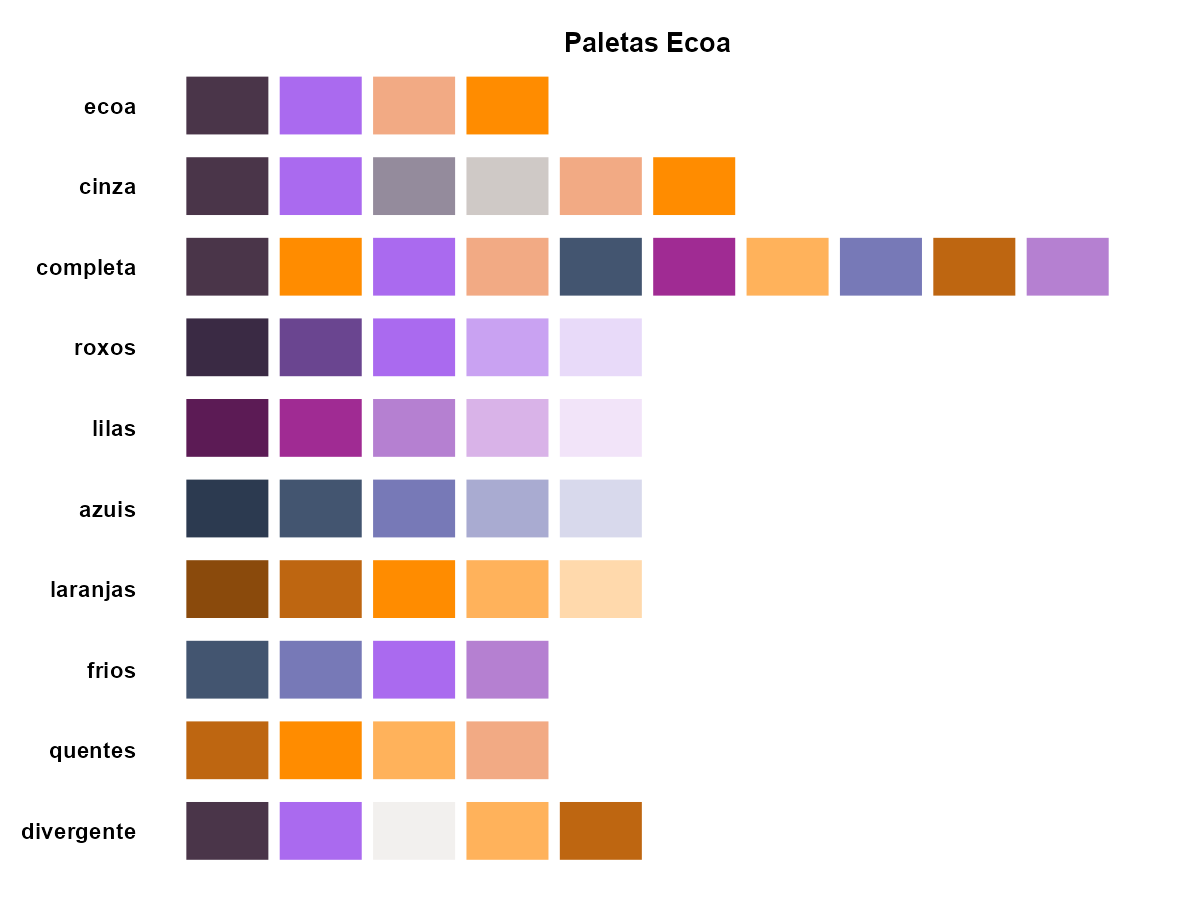
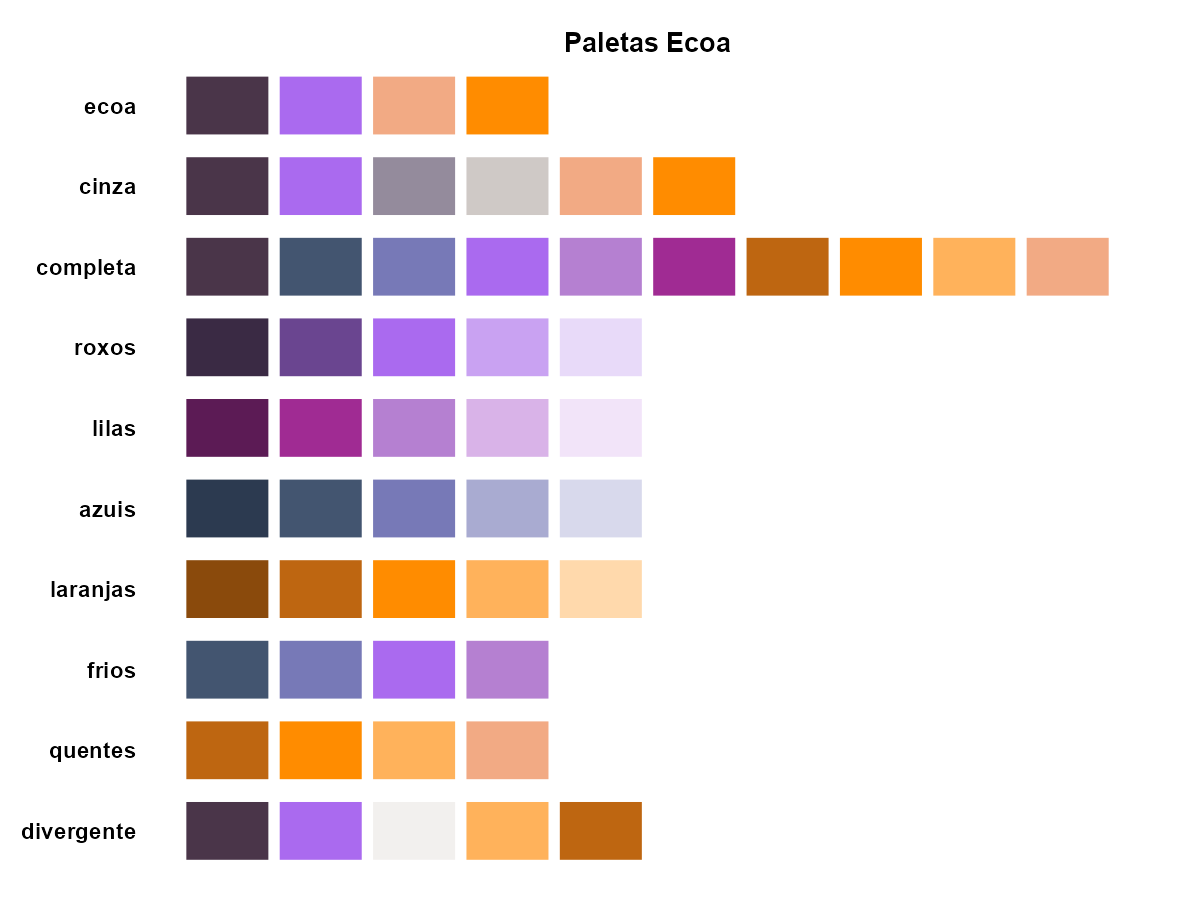
Reordena a paleta completa como espectro continuo e melhora a selecao
A ordem alternada anterior nao tinha leitura de conjunto em graficos
com muitas cores e gerava misturas turvas ao interpolar. Mudancas:

- Paleta completa reordenada como espectro continuo frios -> quentes:
  roxo escuro, azuis, roxo claro, lilas, magenta e laranjas do escuro
  ao pessego. Distancia CIELAB media entre cores vizinhas caiu de 92
  para 36 (transicao ~2,5x mais suave)
- Selecao qualitativa deixa de pegar as primeiras n cores e passa a
  pegar n cores igualmente espacadas ao longo do espectro: com poucas
  categorias o contraste segue alto (>= 36 ate n=5, contra 18,9 antes)
  e a interpolacao alem de 10 cores fica coerente

Changed region(s): [[0.2158, 0.2489, 0.555, 0.3422], [0.6167, 0.2489, 0.925, 0.3422]]

diff --git a/README.md b/README.md
@@ -61,7 +61,7 @@ Alem da paleta padrao, o pacote traz um conjunto de paletas nomeadas, no estilo 
 |--------|------|:-----:|--------------|
 | `ecoa` | principal | 4 | Padrao: roxos e laranjas |
 | `cinza` | principal | 6 | Padrao com cinzas na transicao, para mais categorias |
-| `completa` | qualitativa | 10 | Muitas categorias: roxos, laranjas, azuis e lilas do tema institucional |
+| `completa` | qualitativa | 10 | Muitas categorias: espectro continuo (frios -> quentes) com roxos, azuis, lilas e laranjas do tema institucional |
 | `roxos` | sequencial | 5 | Dados ordenados/continuos em tons de roxo |
 | `lilas` | sequencial | 5 | Dados ordenados/continuos em tons de lilas/magenta |
 | `azuis` | sequencial | 5 | Dados ordenados/continuos em tons de azul |
@@ -83,7 +83,7 @@ scale_color_ecoa(paleta = "divergente")  # desvios em torno de um centro
 hex_ecoa(6, paleta = "laranjas")         # hex codes para PPT/Excel
 ```
 
-As paletas qualitativas (`completa`) retornam cores exatas ate o limite; as demais sao interpoladas para qualquer `n`.
+As paletas qualitativas (`completa`) retornam cores exatas ate o limite, selecionadas em posicoes igualmente espacadas ao longo do espectro — com poucas categorias as cores continuam bem contrastadas, e com muitas a sequencia mantem transicao suave. As demais paletas sao interpoladas para qualquer `n`.
 
 ## Funcoes Disponiveis
 
